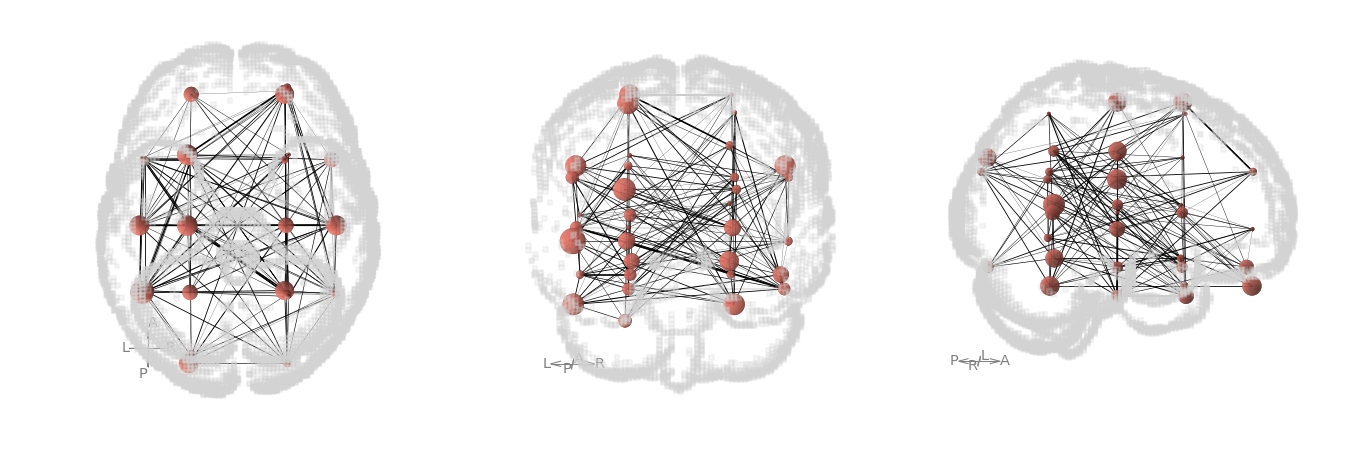
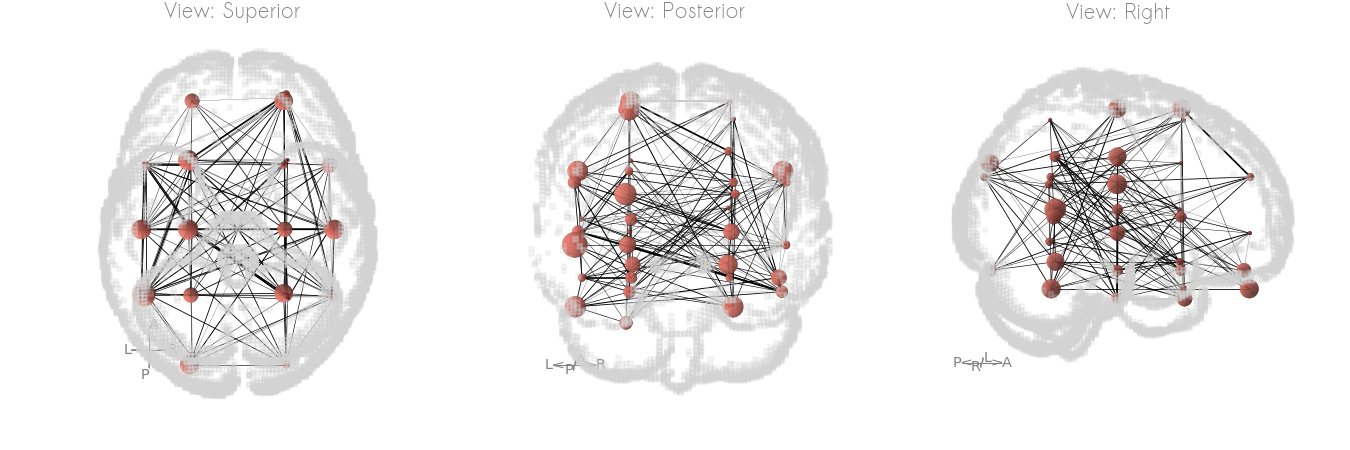
adding titles

diff --git a/netplotbrain/plot.py b/netplotbrain/plot.py
@@ -5,13 +5,13 @@ import pandas as pd
 from .plotting import _plot_template, _plot_template_style_filled, _plot_template_style_cloudy,\
     _plot_edges, _plot_nodes, _plot_spheres, _set_axes_equal, _set_axes_radius, _get_view,\
     _scale_nodes, _add_axis_arrows, _plot_template_style_surface, _get_nodes_from_nii, _plot_parcels,\
-    _select_single_hemisphere_nodes, _npedges2dfedges
+    _select_single_hemisphere_nodes, _npedges2dfedges, _add_subplot_title, get_frame_input
 
 
 def plot(nodes=None, fig=None, ax=None, view='L', frames=1, edges=None, template=None, templatestyle='filled', templatealpha=0.2,
          templatevoxsize=None, templatecolor='lightgray', surface_resolution=2, templateedgethreshold=0.7, arrowaxis='auto', arrowlength=10,
          arroworigin=None, edgecolor='k', edgewidth='auto', nodesize=1, nodescale=5, nodecolor='salmon', nodetype='spheres',
-         weightcol='weights', nodecols=['x', 'y', 'z'], nodeimg=None, nodealpha=1, hemisphere='both'):
+         weightcol='weights', nodecols=['x', 'y', 'z'], nodeimg=None, nodealpha=1, hemisphere='both', title='auto'):
     # sourcery skip: merge-nested-ifs
     """
     Plot a network on a brain
@@ -82,9 +82,9 @@ def plot(nodes=None, fig=None, ax=None, view='L', frames=1, edges=None, template
         For any other view specification, (e.g. specifying string such as 'LSR')
         then this value is not needed.
     hemisphere: string or list
-        If string, can be left, right or both to specify hemisphere to include.
+        If string, can be left or right to specify single hemisphere to include.
         If list, should match the size of views and contain strings to specify hemisphere.
-        Can be abbreviated to L, R and B.  
+        Can be abbreviated to L, R and (empty string possible if both hemisphere plotted).  
         Between hemispehre edges are deleted.
     nodecols : list
         Node column names in node dataframe. Default is x, y, z (specifying coordinates)
@@ -97,7 +97,7 @@ def plot(nodes=None, fig=None, ax=None, view='L', frames=1, edges=None, template
     if isinstance(nodes, str): 
         nodes = pd.read_csv(nodes, sep='\t', index_col=0)
     if isinstance(edges, str): 
-        edges = pd.read_csv(nodes, sep='\t', index_col=0)
+        edges = pd.read_csv(edges, sep='\t', index_col=0)
     # get the number of views
     if isinstance(view, list):
         nrows = len(view)
@@ -139,12 +139,9 @@ def plot(nodes=None, fig=None, ax=None, view='L', frames=1, edges=None, template
         for fi in range(frames):
             axind += 1
             # Get hemisphere for this frame
-            if isinstance(hemisphere, str):
-                hemi_frame = hemisphere
-            elif isinstance(hemisphere[0], str): 
-                hemi_frame = hemisphere[axind]
-            else: 
-                hemi_frame = hemisphere[ri][fi]
+            hemi_frame = get_frame_input(hemisphere, axind, ri, fi)
+            # Get title for this frame
+            title_frame = get_frame_input(title, axind, ri, fi)
             # Set up subplot                
             if ax_in is None:
                 subplotid = rows + colnum + axind + 1
@@ -196,10 +193,12 @@ def plot(nodes=None, fig=None, ax=None, view='L', frames=1, edges=None, template
                                  azim=azim[fi], elev=elev[fi])
 
             ax.view_init(azim=azim[fi], elev=elev[fi])
-            # IMPORTANT - this is the new, key line
+            _add_subplot_title(ax, azim[fi], elev[fi], title_frame, hemi_frame)
+            # Fix the aspect ratio
             ax.set_box_aspect([1, 1, 1])
-            _set_axes_equal(ax)  # IMPORTANT - this is also required
+            _set_axes_equal(ax)
             ax.axis('off')
+            # Append ax to ax_out to store it.
             ax_out.append(ax)
 
     fig.tight_layout()

diff --git a/examples/example1.py b/examples/example1.py
@@ -43,6 +43,7 @@ netplotbrain.plot(template='MNI152NLin2009cAsym',
                   ax = ax_m1,
                   view='A',
                   nodes=nodes,
+                  title='Centrality Measure 1',
                   nodesize='centrality_measure1',
                   nodecolor='red',
                   edges=edges)
@@ -54,6 +55,7 @@ netplotbrain.plot(template='MNI152NLin2009cAsym',
                   ax = ax_m2,
                   view='A',
                   nodes=nodes,
+                  title='Centrality Measure 2',
                   nodesize='centrality_measure2',
                   nodecolor='blue',
                   edges=edges)
@@ -80,6 +82,7 @@ netplotbrain.plot(nodeimg={'atlas': 'Schaefer2018',
                             'desc': '400Parcels7Networks',
                             'resolution': 1},
                   template='MNI152NLin2009cAsym',
+                  title='Plotting templateflow atlas as spheres',
                   templatestyle='surface',
                   view=['LSR'],
                   nodetype='circles')
@@ -93,6 +96,7 @@ netplotbrain.plot(nodeimg={'atlas': 'Schaefer2018',
                             'desc': '400Parcels7Networks',
                             'resolution': 1},
                   template='MNI152NLin2009cAsym',
+                  title='Plotting templateflow atlas as parcels',
                   templatestyle=None,
                   view=['LSR'],
                   nodetype='parcels',
@@ -121,6 +125,7 @@ plt.savefig('./examples/figures/hemi.png', dpi=150)
 # So scaling the nodes is useful.  
 netplotbrain.plot(template='WHS',
          templatestyle='surface',
+         title='Multiple templates possible',
          view='LSR',
          nodes=nodes / 8,
          nodesize='centrality_measure1',

diff --git a/netplotbrain/plotting/plot_title.py b/netplotbrain/plotting/plot_title.py
@@ -1,0 +1,30 @@
+
+
+def _add_subplot_title(ax, azim, elev, title='auto', hemisphere='both', titlefont='Sawasdee', titlefontsize='medium', titleloc='center', titleweight='regular', titlecolor='gray'):
+
+    if title == 'auto':
+        viewcoord = (azim, elev)
+        title = ''
+        if viewcoord == (180, 10): 
+            title = 'View: Left'
+        elif viewcoord == (0, 10): 
+            title = 'View: Right'
+        elif viewcoord == (90, 10): 
+            title = 'View: Anterior'
+        elif viewcoord == (-90, 10): 
+            title = 'View: Posterior'
+        elif viewcoord == (-90, 90): 
+            title = 'View: Superior'     
+        elif viewcoord == (90, 90): 
+            title = 'View: Inferior'
+        # Add hemisphere
+        if hemisphere == 'L' or hemisphere == 'left': 
+            title += ' (left hemisphere)'
+        elif hemisphere == 'R' or hemisphere == 'right': 
+            title += ' (right hemisphere)' 
+
+    ax.set_title(title, fontname=titlefont,
+                     fontweight=titleweight, color=titlecolor,
+                     fontsize=titlefontsize,
+                     loc=titleloc)
+

diff --git a/netplotbrain/plotting/__init__.py b/netplotbrain/plotting/__init__.py
@@ -6,11 +6,12 @@ from .plot_templates import _plot_template, _plot_template_style_filled, \
     _plot_template_style_cloudy, _plot_template_style_surface
 from .plot_dimarrows import _add_axis_arrows
 from .plot_parcels import _get_nodes_from_nii, _plot_parcels
-
+from .plot_title import _add_subplot_title
+from .process_input import get_frame_input
 __all__ = ['_set_axes_equal', '_set_axes_radius', '_get_view',
            '_plot_template', '_plot_template_style_filled',
            '_plot_template_style_cloudy',
            '_scale_nodes', '_plot_nodes', '_plot_spheres',
            '_plot_edges', '_plot_template_style_surface',
            '_add_axis_arrows', '_get_nodes_from_nii', '_plot_parcels',
-           '_select_single_hemisphere_nodes', '_npedges2dfedges']
+           '_select_single_hemisphere_nodes', '_npedges2dfedges', '_add_subplot_title']

diff --git a/netplotbrain/plotting/process_input.py b/netplotbrain/plotting/process_input.py
@@ -1,0 +1,12 @@
+def get_frame_input(inputvar, axind, ri, fi):
+    """
+    Gets subplot varible depnding on whether the
+    input is a string, array or 2d array.
+    """
+    if isinstance(inputvar, str):
+        var_frame = inputvar
+    elif isinstance(inputvar[0], str): 
+        var_frame = inputvar[axind]
+    else: 
+        var_frame = inputvar[ri][fi]
+    return var_frame

diff --git a/netplotbrain/plotting/plot_utils.py b/netplotbrain/plotting/plot_utils.py
@@ -84,3 +84,6 @@ def _get_view(views='L', frames=1, arrowaxis='auto'):
     if arrowaxis == 'auto':
         arrowaxis = autoarrowaxis
     return vx, vy, arrowaxis
+
+
+
